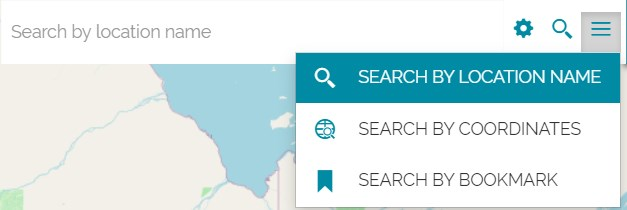
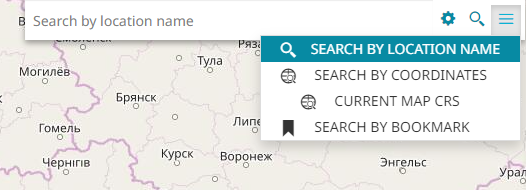
update_10315

diff --git a/docs/user-guide/mapstore-toolbars.md b/docs/user-guide/mapstore-toolbars.md
@@ -14,9 +14,11 @@ The search bar is a tool that allows the user to query the layers in order to fi
 
 * By **Location name**
 
+* By **Configuring a search service**
+
 * By **Coordinates**
 
-* By **Configuring a search service**
+* By **Current map CRS**
 
 * By **Bookmarks**
 
@@ -27,22 +29,6 @@ The search bar is a tool that allows the user to query the layers in order to fi
 The *Search by location name*, set by default when a new map is created, allows the user to search places asking the [OpenStreetMap Nominatim search engine](https://nominatim.openstreetmap.org/). Typing the desired place, the Nominatim seach engine is queried; selecting then the desired record in the list of results, the map is automatically re-center/zoomed to the chosen area that is also highlighted:
 
 <img src="../img/menu-bar/rome.jpg" class="ms-docimage" />
-
-### Search by coordinates
-
-Performing a *Search by coordinates* the user can zoom to a specific point and place a marker in its position. That point can be specified typing the coordinates in two different formats:
-
-* **Decimal** (the default format)
-
-<img src="../img/menu-bar/decimal.jpg" class="ms-docimage" style="max-width:500px;"/>
-
-* **Aeronautical** (that can be chosen through the <img src="../img/button/change-search-tool.jpg" class="ms-docbutton"/> button)
-
-<img src="../img/menu-bar/aeronautical.jpg" class="ms-docimage" style="max-width:500px;"/>
-
-Once the coordinates are set, it is possible to perform the search with the <img src="../img/button/magnifying_glass_icon.jpg" class="ms-docbutton"/> button. The displayed result is similar to the following:
-
-<img src="../img/menu-bar/performed-search.jpg" class="ms-docimage"/>
 
 ### Configuring a search service
 
@@ -118,6 +104,32 @@ When there are multiple search services defined, by default [MapStore](https://m
 In the *Search Menu*, the user can choose one of the search services to use to carry out the search by clicking on one of them. An example could be the following:
 
 <video class="ms-docimage" style="max-width:600px;" controls><source src="../img/menu-bar/search-with-one-search-service.mp4"/></video>
+
+### Search by coordinates
+
+Performing a *Search by coordinates* the user can zoom to a specific point and place a marker in its position. That point can be specified typing the coordinates in two different formats:
+
+* **Decimal** (the default format)
+
+<img src="../img/menu-bar/decimal.jpg" class="ms-docimage" style="max-width:500px;"/>
+
+* **Aeronautical** (that can be chosen through the <img src="../img/button/change-search-tool.jpg" class="ms-docbutton"/> button)
+
+<img src="../img/menu-bar/aeronautical.jpg" class="ms-docimage" style="max-width:500px;"/>
+
+Once the coordinates are set, it is possible to perform the search with the <img src="../img/button/magnifying_glass_icon.jpg" class="ms-docbutton"/> button. The displayed result is similar to the following:
+
+<img src="../img/menu-bar/performed-search.jpg" class="ms-docimage"/>
+
+### Search by current map CRS
+
+MapStore allows the user to *Search by current map CRS*, which can zoom to a specific point and place a marker in its position. That point can be specified typing the **X** and **Y** coordinates of the map.
+Once the coordinates are set, it is possible to perform the search with the <img src="../img/button/magnifying_glass_icon.jpg" class="ms-docbutton"/> button. The displayed result is similar to the following:
+
+<img src="../img/menu-bar/performed-search_by_crs.jpg" class="ms-docimage" style="max-width:600px;"/>
+
+!!! Warning
+    The *Search by current map CRS* is available only if the the current map CRS is not the one normally used by Decimal and Aeronautical coordinates, which means `EPSG:4326`.
 
 ### Search by bookmark
 
